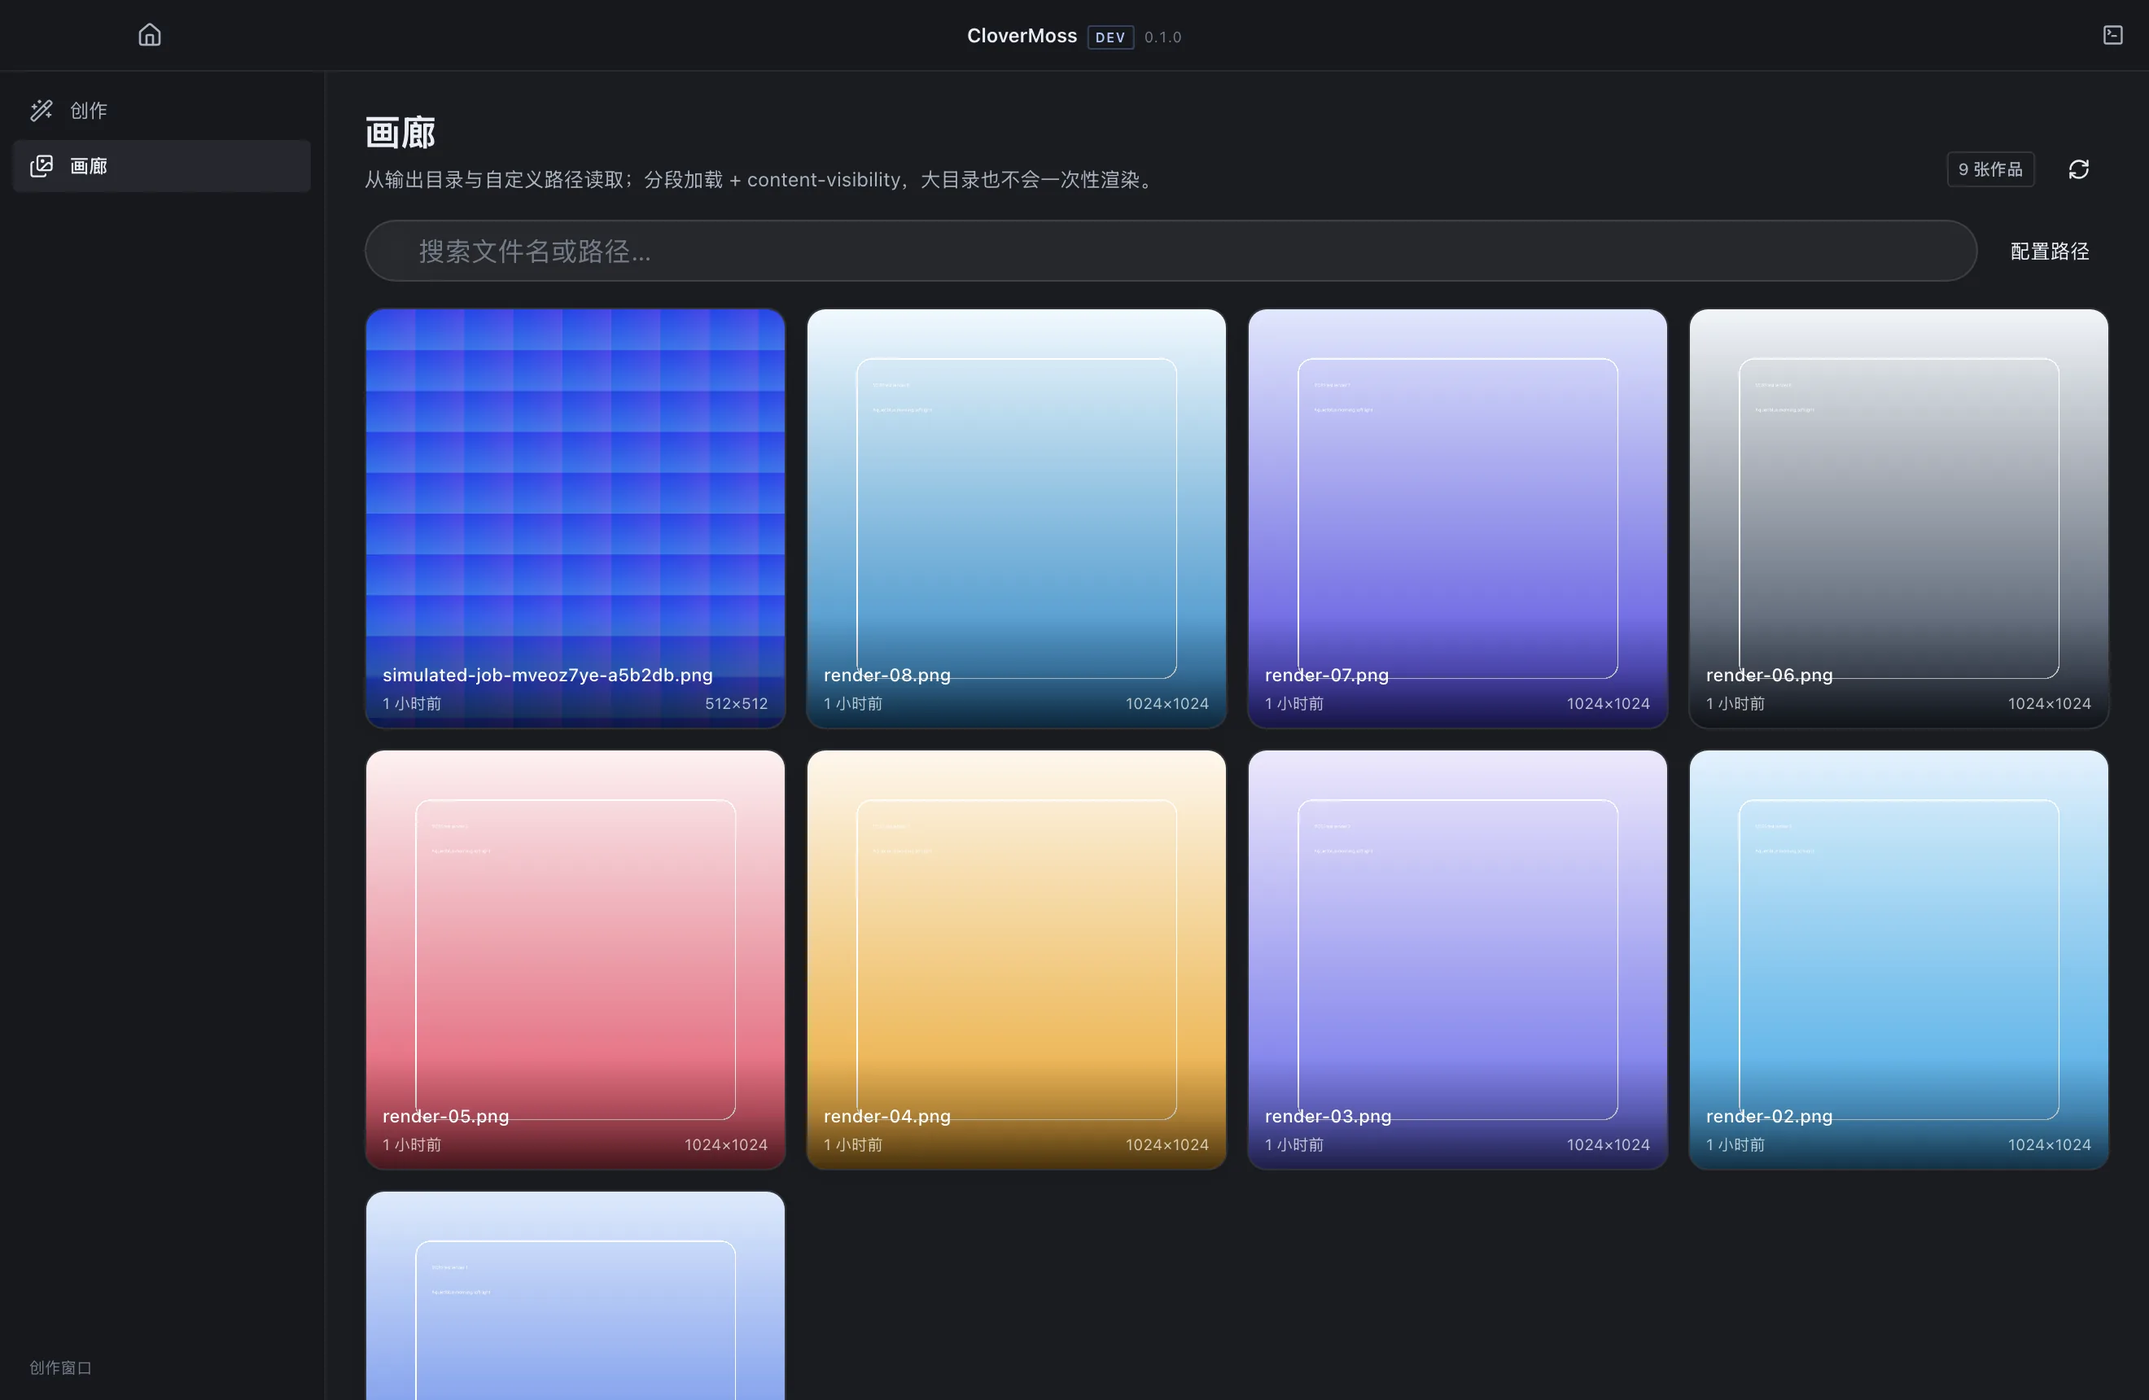
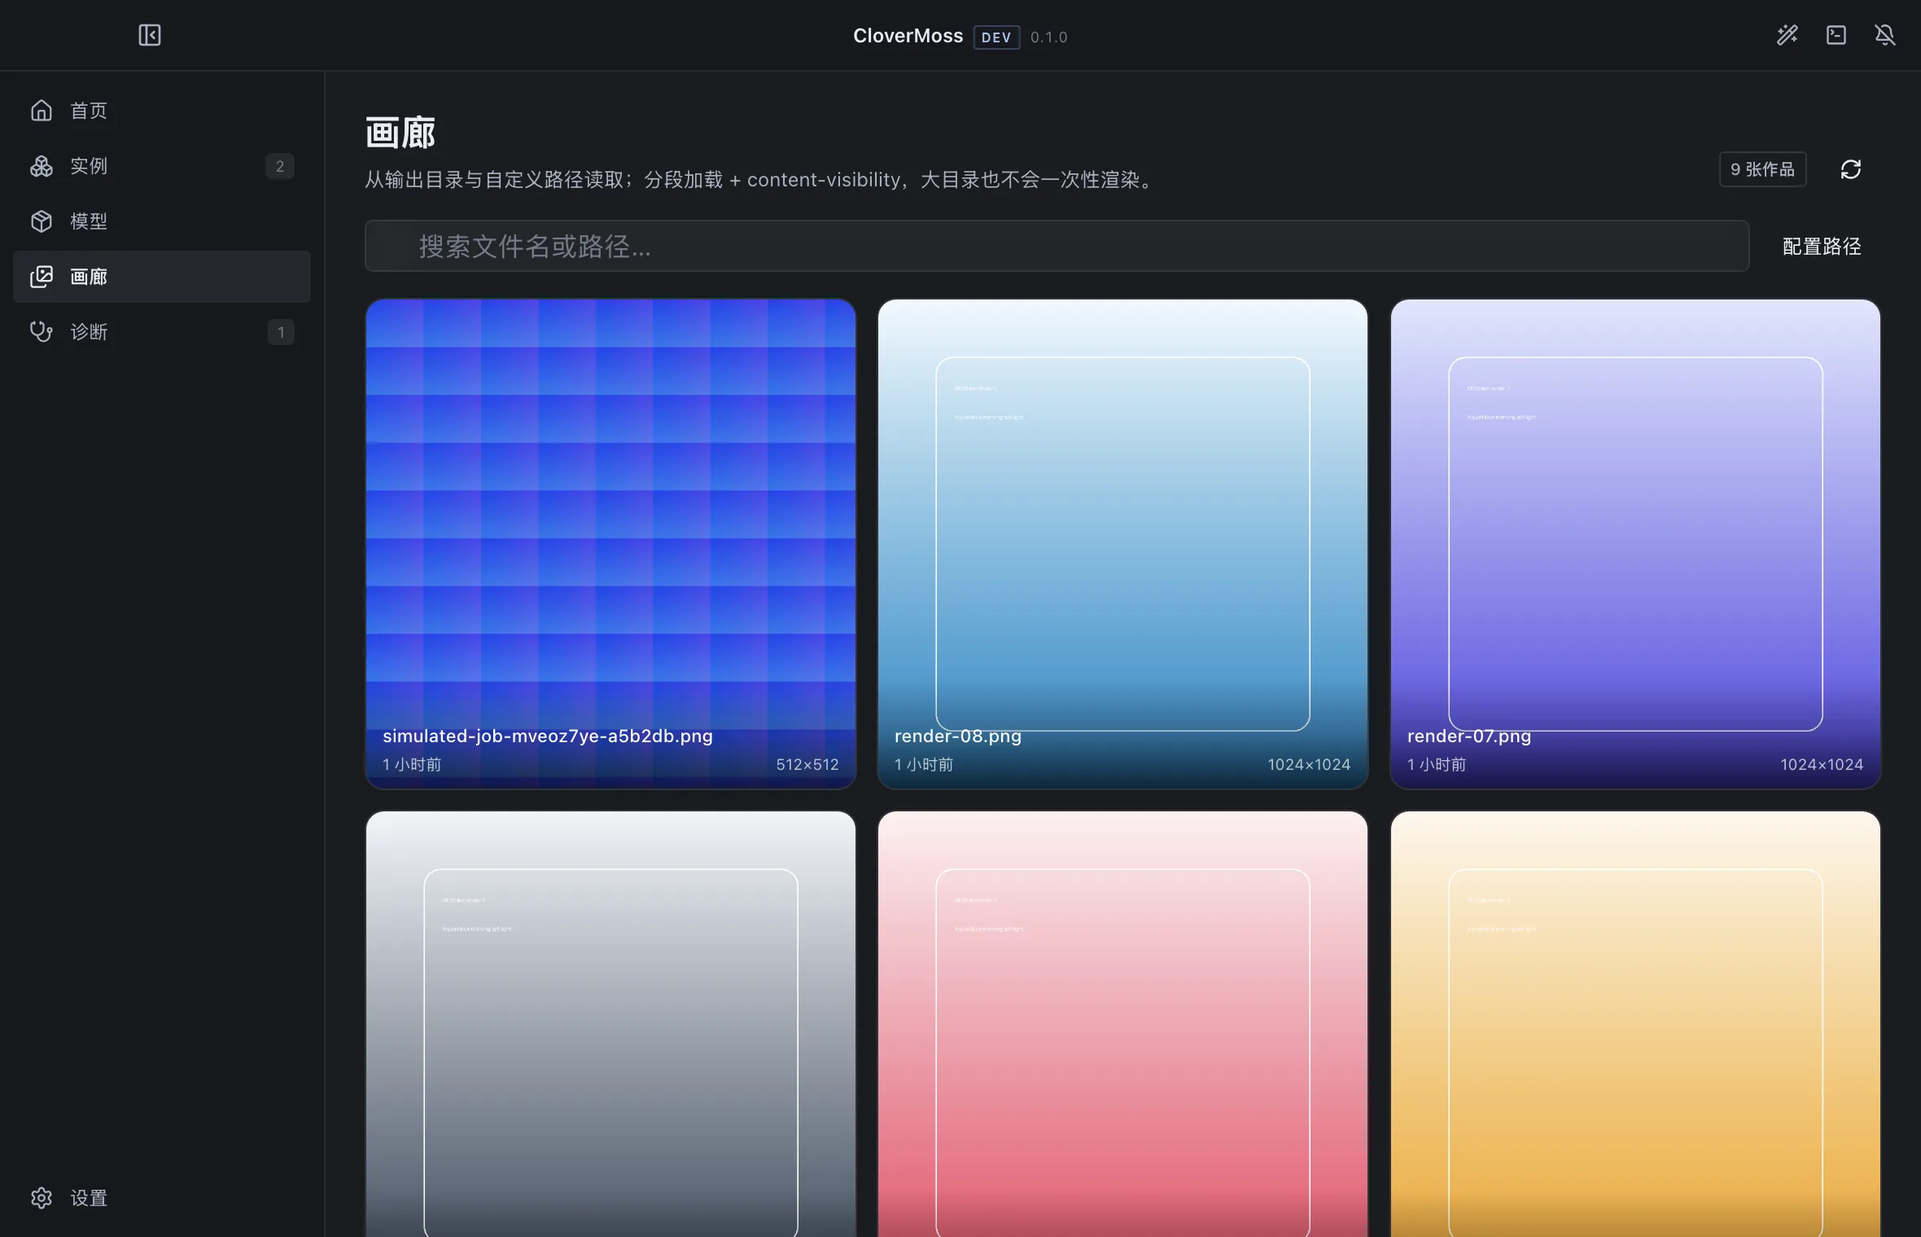
feat(ui): 全局画廊、16:9 首页背景与固定宽度启动条
- 画廊进入启动器侧栏，成为全局工具；创作窗口保留入口
- 画廊“用作布局底图”可从启动器打开创作窗口，并用 localStorage 传递底图
- 首页主区域加入 16:9 深灰背景占位图，设置里可换图并预览
- 启动条改为固定宽度 880px、在右侧主区域居中；任务表同宽
- 启动条字段改用 Apps SDK UI Select，与任务表/输入列对齐
- 文档与截图更新

diff --git a/apps/desktop/src/renderer/src/pages/Gallery.tsx b/apps/desktop/src/renderer/src/pages/Gallery.tsx
@@ -5,6 +5,7 @@ import { Ipc } from '@shared/channels'
 import type { GalleryDetail, GalleryItem, GalleryPage } from '@shared/types'
 import { call } from '../lib/api'
 import { cloverUrl } from '../lib/clover'
+import { openWindow } from '../lib/windows'
 import { bytes, dateTime, relative } from '../lib/format'
 import { useApp } from '../store'
 import { Button, Card, EmptyState, Modal, Pill, Spinner, useToast } from '../components/ui'
@@ -15,6 +16,7 @@ export function GalleryPage(): React.JSX.Element {
   const navigate = useNavigate()
   const toast = useToast()
   const setStudioBackground = useApp((state) => state.setStudioBackground)
+  const creatorWindow = window.clover.windowKind === 'creator'
   const [items, setItems] = useState<GalleryItem[]>([])
   const [cursor, setCursor] = useState<string | null>(null)
   const [total, setTotal] = useState(0)
@@ -110,10 +112,13 @@ export function GalleryPage(): React.JSX.Element {
             value={search}
             onChange={(event) => setSearch(event.target.value)}
             placeholder="搜索文件名或路径…"
-            className="w-full rounded-full border border-[var(--color-border)] bg-white/55 py-1.5 pl-8 pr-3 text-[12px] outline-none backdrop-blur-md transition focus:border-accent-500 dark:bg-white/[0.05]"
+            className="h-8 w-full rounded-[5px] border border-[var(--color-border-subtle)] bg-white/[0.04] pl-8 pr-3 text-[11px] outline-none backdrop-blur-md transition focus:border-accent-500/60"
           />
         </div>
-        <Button tone="ghost" onClick={() => navigate('/settings')}>
+        <Button
+          tone="ghost"
+          onClick={() => (creatorWindow ? openWindow('launcher', '/settings') : navigate('/settings'))}
+        >
           配置路径
         </Button>
       </div>
@@ -124,7 +129,10 @@ export function GalleryPage(): React.JSX.Element {
           title="还没有作品"
           description="生成图片后会自动出现在输出目录；也可以在设置里添加任意本地文件夹。"
           action={
-            <Button tone="primary" onClick={() => navigate('/settings')}>
+            <Button
+              tone="primary"
+              onClick={() => (creatorWindow ? openWindow('launcher', '/settings') : navigate('/settings'))}
+            >
               打开画廊设置
             </Button>
           }
@@ -193,7 +201,13 @@ export function GalleryPage(): React.JSX.Element {
                 tone="secondary"
                 onClick={() => {
                   setStudioBackground(detail)
-                  navigate('/studio')
+                  try {
+                    localStorage.setItem('clover.studioBackground', JSON.stringify(detail))
+                  } catch {
+                    // storage may be unavailable
+                  }
+                  if (creatorWindow) navigate('/studio')
+                  else openWindow('creator', '/studio')
                 }}
               >
                 <span className="inline-flex items-center gap-1.5">
@@ -210,39 +224,39 @@ export function GalleryPage(): React.JSX.Element {
           </div>
         ) : detail ? (
           <div className="grid grid-cols-1 gap-4 md:grid-cols-[1.4fr_1fr]">
-            <div className="flex max-h-[52vh] items-center justify-center overflow-hidden rounded-xl bg-[var(--color-surface-secondary)]">
+            <div className="flex max-h-[52vh] items-center justify-center overflow-hidden rounded-[6px] bg-[var(--color-surface-secondary)]">
               <img src={cloverUrl(detail.path)} alt={detail.name} className="max-h-[52vh] w-full object-contain" />
             </div>
             <div className="space-y-3 text-[11.5px]">
               <div className="grid grid-cols-2 gap-2">
-                <div className="rounded-lg bg-white/45 px-2.5 py-2 dark:bg-white/[0.04]">
+                <div className="rounded-[4px] bg-white/[0.04] px-2.5 py-2 ">
                   <div className="text-[10px] text-[var(--color-text-tertiary)]">尺寸</div>
                   <div className="mt-0.5 font-medium">
                     {detail.width && detail.height ? `${detail.width} × ${detail.height}` : '未知'}
                   </div>
                 </div>
-                <div className="rounded-lg bg-white/45 px-2.5 py-2 dark:bg-white/[0.04]">
+                <div className="rounded-[4px] bg-white/[0.04] px-2.5 py-2 ">
                   <div className="text-[10px] text-[var(--color-text-tertiary)]">文件</div>
                   <div className="mt-0.5 font-medium">{bytes(detail.size)}</div>
                 </div>
-                <div className="rounded-lg bg-white/45 px-2.5 py-2 dark:bg-white/[0.04]">
+                <div className="rounded-[4px] bg-white/[0.04] px-2.5 py-2 ">
                   <div className="text-[10px] text-[var(--color-text-tertiary)]">修改时间</div>
                   <div className="mt-0.5 font-medium">{dateTime(new Date(detail.mtime).toISOString())}</div>
                 </div>
-                <div className="rounded-lg bg-white/45 px-2.5 py-2 dark:bg-white/[0.04]">
+                <div className="rounded-[4px] bg-white/[0.04] px-2.5 py-2 ">
                   <div className="text-[10px] text-[var(--color-text-tertiary)]">Seed</div>
                   <div className="mt-0.5 font-mono font-medium">{detail.seed ?? '—'}</div>
                 </div>
               </div>
               <div>
                 <div className="mb-1 text-[10px] text-[var(--color-text-tertiary)]">Prompt / 元数据</div>
-                <div className="max-h-40 overflow-y-auto rounded-lg bg-white/45 px-2.5 py-2 text-[10.5px] leading-5 text-[var(--color-text-secondary)] dark:bg-white/[0.04]">
+                <div className="max-h-40 overflow-y-auto rounded-[4px] bg-white/[0.04] px-2.5 py-2 text-[10.5px] leading-5 text-[var(--color-text-secondary)] ">
                   {detail.prompt ?? '这张图没有可读的 prompt 元数据。'}
                 </div>
               </div>
               <div>
                 <div className="mb-1 text-[10px] text-[var(--color-text-tertiary)]">所在目录</div>
-                <div className="break-all rounded-lg bg-white/45 px-2.5 py-2 font-mono text-[10px] text-[var(--color-text-secondary)] dark:bg-white/[0.04]">
+                <div className="break-all rounded-[4px] bg-white/[0.04] px-2.5 py-2 font-mono text-[10px] text-[var(--color-text-secondary)] ">
                   {detail.dir}
                 </div>
               </div>

diff --git a/apps/desktop/src/renderer/src/pages/Home.tsx b/apps/desktop/src/renderer/src/pages/Home.tsx
@@ -13,7 +13,9 @@ import { useNavigate } from 'react-router-dom'
 import { Select as AppsSelect } from '@openai/apps-sdk-ui/components/Select'
 import { Ipc } from '@shared/channels'
 import type { LaunchRow, LaunchStartInput } from '@shared/types'
+import defaultHomeBackground from '../assets/home-background.webp'
 import { call } from '../lib/api'
+import { cloverUrl } from '../lib/clover'
 import { openWindow } from '../lib/windows'
 import { useApp } from '../store'
 import { Button, IconButton, Pill, Spinner, cn, useToast } from '../components/ui'
@@ -81,6 +83,7 @@ export function HomePage(): React.JSX.Element {
   const launchRows = useApp((state) => state.launchRows)
   const jobs = useApp((state) => state.jobs)
   const env = useApp((state) => state.env)
+  const settings = useApp((state) => state.settings)
   const startLaunch = useApp((state) => state.startLaunch)
   const stopLaunch = useApp((state) => state.stopLaunch)
   const setActiveJob = useApp((state) => state.setActiveJob)
@@ -132,6 +135,8 @@ export function HomePage(): React.JSX.Element {
       return (b.startedAt ?? b.queuedAt).localeCompare(a.startedAt ?? a.queuedAt)
     })
   }, [launchRows, sort])
+
+  const background = settings?.homeBackground ? cloverUrl(settings.homeBackground) : defaultHomeBackground
 
   const runningCount = activeRows.filter((row) => row.state === 'running' || row.state === 'starting').length
   const queuedCount = activeRows.filter((row) => row.state === 'queued').length
@@ -201,7 +206,19 @@ export function HomePage(): React.JSX.Element {
   }
 
   return (
-    <div className="flex flex-1 flex-col">
+    <div className="relative flex flex-1 flex-col">
+      <img
+        src={background}
+        alt=""
+        draggable={false}
+        onError={(event) => {
+          if (settings?.homeBackground) event.currentTarget.src = defaultHomeBackground
+        }}
+        className="pointer-events-none absolute -inset-x-6 -inset-y-5 h-[calc(100%+40px)] w-[calc(100%+48px)] object-cover"
+      />
+      <div className="pointer-events-none absolute -inset-x-6 -inset-y-5 bg-[#15171b]/55" />
+
+      <div className="relative z-10 mx-auto flex w-full max-w-[880px] flex-1 flex-col">
       <header className="pt-4">
         <div className="text-[9px] font-semibold uppercase tracking-[0.16em] text-[var(--color-text-tertiary)]">
           Launcher
@@ -442,6 +459,7 @@ export function HomePage(): React.JSX.Element {
           </Button>
         </div>
       ) : null}
+      </div>
     </div>
   )
 }

diff --git a/apps/desktop/src/renderer/src/pages/Settings.tsx b/apps/desktop/src/renderer/src/pages/Settings.tsx
@@ -14,7 +14,9 @@ import {
 import { useEffect, useMemo, useState } from 'react'
 import { Ipc } from '@shared/channels'
 import type { AppInfo, Settings } from '@shared/types'
+import defaultHomeBackground from '../assets/home-background.webp'
 import { call } from '../lib/api'
+import { cloverUrl } from '../lib/clover'
 import { bytes } from '../lib/format'
 import { t } from '../lib/i18n'
 import { useApp } from '../store'
@@ -314,7 +316,7 @@ export function SettingsPage(): React.JSX.Element {
             <div className="min-w-0">
               <div className="text-[12px] font-medium">首页背景图</div>
               <div className="mt-0.5 truncate text-[10px] text-[var(--color-text-tertiary)]">
-                {draft.homeBackground ?? '默认渐变'}
+                {draft.homeBackground ?? '默认深灰占位图（16:9）'}
               </div>
             </div>
             <div className="flex shrink-0 items-center gap-1">
@@ -330,6 +332,16 @@ export function SettingsPage(): React.JSX.Element {
               </Button>
             </div>
           </div>
+          <div className="mt-2.5 overflow-hidden rounded-[6px] border border-[var(--color-border-subtle)]">
+            <img
+              src={draft.homeBackground ? cloverUrl(draft.homeBackground) : defaultHomeBackground}
+              alt="首页背景预览"
+              className="aspect-video w-full object-cover"
+            />
+          </div>
+          <p className="mt-1.5 text-[9.5px] text-[var(--color-text-tertiary)]">
+            建议 16:9，2560×1440；默认使用内置深灰占位图。
+          </p>
         </Card>
 
         <Card className="px-5 py-4">

diff --git a/apps/desktop/src/renderer/src/pages/Studio.tsx b/apps/desktop/src/renderer/src/pages/Studio.tsx
@@ -52,6 +52,19 @@ export function StudioPage(): React.JSX.Element {
   const background = useApp((state) => state.studioBackground)
   const setStudioPrompt = useApp((state) => state.setStudioPrompt)
   const setStudioBackground = useApp((state) => state.setStudioBackground)
+
+  useEffect(() => {
+    if (background) return
+    try {
+      const raw = localStorage.getItem('clover.studioBackground')
+      if (!raw) return
+      const item = JSON.parse(raw) as GalleryItem
+      setStudioBackground(item)
+      localStorage.removeItem('clover.studioBackground')
+    } catch {
+      // ignore
+    }
+  }, [background, setStudioBackground])
   const instances = useApp((state) => state.instances)
   const env = useApp((state) => state.env)
 

diff --git a/apps/desktop/src/main/windows.ts b/apps/desktop/src/main/windows.ts
@@ -98,8 +98,16 @@ export function createAppWindow(kind: WindowKind, show = true): BrowserWindow {
   return win
 }
 
-export function openWindow(kind: WindowKind): BrowserWindow {
-  return createAppWindow(kind)
+export function openWindow(kind: WindowKind, route?: string): BrowserWindow {
+  const win = createAppWindow(kind)
+  if (route) {
+    const apply = (): void => {
+      void win.webContents.executeJavaScript(`location.hash = '#${route}'`)
+    }
+    if (win.webContents.isLoading()) win.webContents.once('did-finish-load', apply)
+    else apply()
+  }
+  return win
 }
 
 export function getWindow(kind: WindowKind): BrowserWindow | undefined {

diff --git a/apps/desktop/src/renderer/src/App.tsx b/apps/desktop/src/renderer/src/App.tsx
@@ -66,6 +66,7 @@ function LauncherShell(): React.JSX.Element {
                 <Route path="/instances" element={<InstancesPage />} />
                 <Route path="/instances/:id" element={<InstanceDetailPage />} />
                 <Route path="/models" element={<ModelsPage />} />
+                <Route path="/gallery" element={<GalleryPage />} />
                 <Route path="/diagnostics" element={<DiagnosticsPage />} />
                 <Route path="/settings" element={<SettingsPage />} />
                 <Route path="*" element={<Navigate to="/" replace />} />

diff --git a/apps/desktop/src/shared/schemas.ts b/apps/desktop/src/shared/schemas.ts
@@ -64,7 +64,10 @@ export const schemas = {
 
   announcementsDismiss: z.object({ id: z.string().min(1).max(120) }),
 
-  windowOpen: z.object({ kind: z.enum(['launcher', 'creator', 'terminal']) }),
+  windowOpen: z.object({
+    kind: z.enum(['launcher', 'creator', 'terminal']),
+    route: z.string().regex(/^\/[a-z0-9/_-]*$/i).max(120).optional(),
+  }),
 
   caseSave: z.object({
     id: z.string().max(80).optional(),

diff --git a/apps/desktop/src/renderer/src/components/layout.tsx b/apps/desktop/src/renderer/src/components/layout.tsx
@@ -26,6 +26,7 @@ const launcherNav: NavItem[] = [
   { to: '/', key: 'nav.home', icon: Home, end: true },
   { to: '/instances', key: 'nav.instances', icon: Boxes },
   { to: '/models', key: 'nav.models', icon: Package },
+  { to: '/gallery', key: 'nav.gallery', icon: Images },
   { to: '/diagnostics', key: 'nav.diagnostics', icon: Stethoscope },
 ]
 

diff --git a/apps/desktop/src/main/ipc.ts b/apps/desktop/src/main/ipc.ts
@@ -69,8 +69,8 @@ export function registerIpc(): void {
     acrylic: process.platform === 'darwin' || process.platform === 'win32',
   }))
 
-  handle(Ipc.windowOpen, schemas.windowOpen, ({ kind }) => {
-    openWindow(kind)
+  handle(Ipc.windowOpen, schemas.windowOpen, ({ kind, route }) => {
+    openWindow(kind, route)
     return true
   })
 

diff --git a/apps/desktop/src/renderer/src/lib/windows.ts b/apps/desktop/src/renderer/src/lib/windows.ts
@@ -3,6 +3,6 @@ import { call } from './api'
 
 export type WindowKind = 'launcher' | 'creator' | 'terminal'
 
-export function openWindow(kind: WindowKind): void {
-  void call(Ipc.windowOpen, { kind })
+export function openWindow(kind: WindowKind, route?: string): void {
+  void call(Ipc.windowOpen, { kind, route })
 }

diff --git a/apps/desktop/src/main/index.ts b/apps/desktop/src/main/index.ts
@@ -351,6 +351,7 @@ app.whenReady().then(async () => {
       ['/instances', 'instances'],
       ['/instances/moss-main-9d799c1', 'instance-detail'],
       ['/diagnostics', 'diagnostics'],
+      ['/gallery', 'gallery-launcher'],
       ['/models', 'models'],
       ['/settings', 'settings'],
     ]

diff --git a/release/README.md b/release/README.md
@@ -13,14 +13,14 @@
 - **模型与适配器**：官方权重、社区 int8/int4、8 步 DMD 的统一目录；
   下载走 HF 兼容缓存，支持断点与镜像，官方代码可直接命中。
 - **三窗口**：启动器负责启动与监视；创作窗口负责 JSON/画布；终端窗口看 stdout/stderr。
-- **启动条**：固定在首页底部、低高度宽幅；Case、后端、实例、设备、档位、高级、启动；运行后变成停止/终端/打开界面，并在上方插入一条新的启动条。
+- **启动条**：固定在首页底部、固定宽度居中；Case、后端、实例、设备、档位、高级、启动；运行后变成停止/终端/打开界面，并在上方插入一条新的启动条。
 - **运行栈**：运行中的 Case 收在下方，可折叠、按名称或启动时间排序；同设备默认排队。
 - **OOBE**：没有可启动实例时默认出现，检查实例/运行时/模型三行，可本次跳过。
 - **创作台**：写 Prompt、选尺寸/步数/CFG/Seed；右侧画布可以框选人物、物体和文字区域。
 - **布局标注**：按官方 layout JSON 规则编译成 `abs_centralized + yxyx`，一键插入 Prompt；
   编译器与官方 `compile_prompt.py` 对拍一致。
-- **画廊**：自动读取输出目录，也可以添加任意本地文件夹；分页加载，支持详情、元数据与
-  “用作布局底图”。
+- **画廊**：启动器侧栏的全局工具，自动读取输出目录，也可以添加任意本地文件夹；分页加载，支持详情、元数据与“用作布局底图”。
+- **首页背景**：内置 16:9 深灰占位图，设置里可换任意本地图片。
 - **通知中心**：右上角抽屉，默认打开；上半是仓库公告，下半是实例/安装/下载/任务等应用内通知。
 - **诊断**：OOM、缺包、网络、缺权重等会变成带解决方案的卡片；同一错误不会反复弹窗。
 - **终端**：独立窗口，左侧 Cases，右侧 xterm，支持 stdin 与停止。
